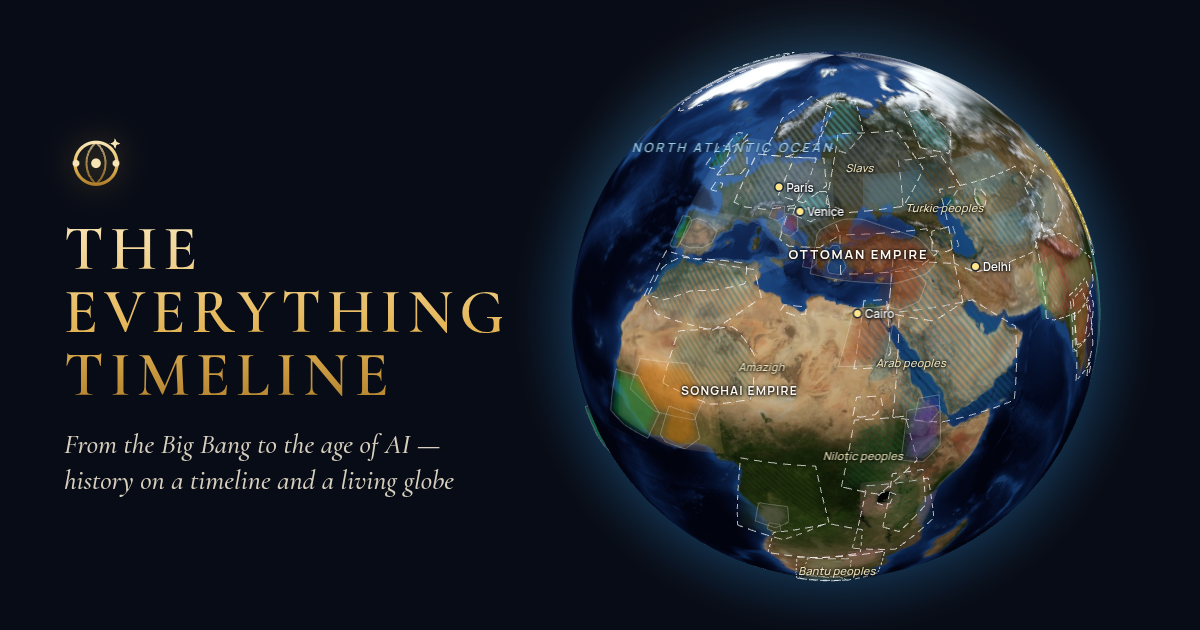
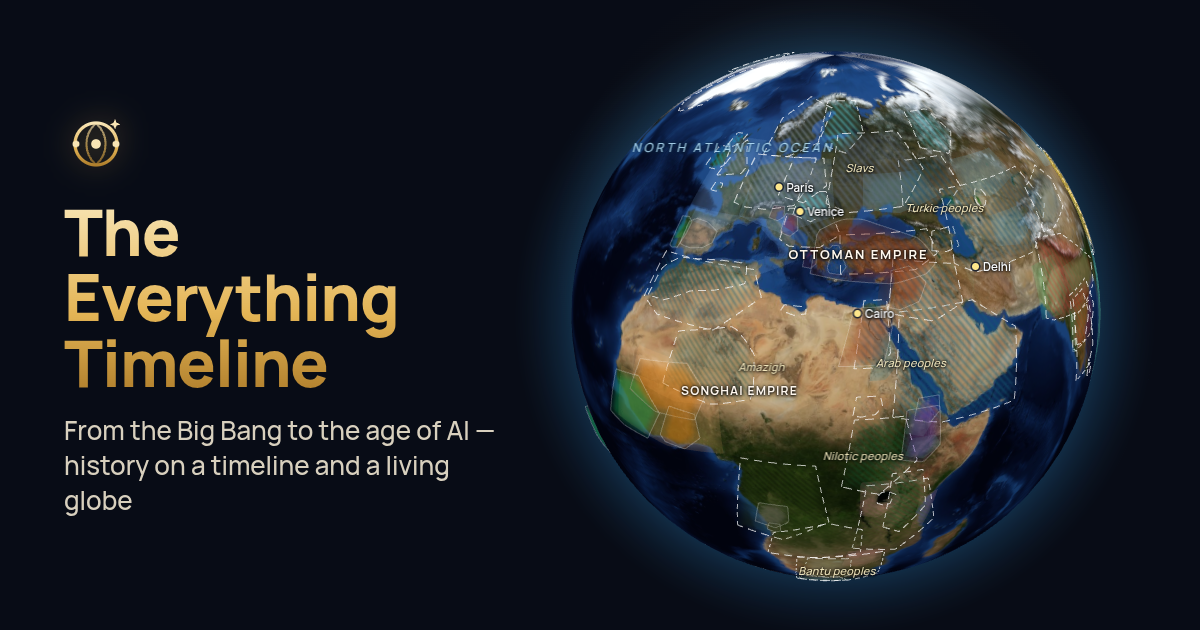
Day 47b: readable type — Manrope 800 headings/wordmark (title case), larger panel/detail text, chips, key, scrubber and axis labels; brighter secondary text; drop palette alternatives; new og-image

Changed region(s): [[0.0308, 0.3317, 0.4317, 0.6333], [0.0308, 0.6635, 0.4008, 0.8143], [0.0617, 0.181, 0.1233, 0.3016]]

diff --git a/src/style.css b/src/style.css
@@ -8,13 +8,12 @@
 
 /* ============================================================
    Day 47 — design tokens ("Gilded Night"): ink-navy space, warm gold brand,
-   Cormorant Garamond display + Manrope UI. Alternatives: [data-palette="b|c"]
-   at the end of this file (try ?palette=b / ?palette=c).
+   Manrope throughout (800 for the wordmark / headings, 400–600 for UI).
    ============================================================ */
 :root,
 [data-theme="dark"] {
   /* type */
-  --font-display: 'Cormorant Garamond', 'Cormorant', Georgia, 'Times New Roman', serif;
+  --font-display: 'Manrope', system-ui, -apple-system, 'Segoe UI', Roboto, sans-serif;
   --font-ui: 'Manrope', system-ui, -apple-system, 'Segoe UI', Roboto, sans-serif;
   --fs-2xs: 0.68rem;
   --fs-xs: 0.74rem;
@@ -24,7 +23,7 @@
   --fs-xl: 1.35rem;
   --fs-2xl: 1.75rem;
   --fs-3xl: 2.2rem;
-  --tracking-caps: 0.12em;
+  --tracking-caps: 0.08em;
   /* space + shape */
   --space-1: 4px;
   --space-2: 8px;
@@ -41,7 +40,7 @@
   --bg-surface: #111A2C;
   --bg-elevated: #1E2A42;
   --text: #F1EBDD;
-  --text-muted: #B3AC9B;
+  --text-muted: #C6BFAE;
   --accent: #E4B556;
   --accent-strong: #F3CD7A;
   --on-accent: #1B1305;
@@ -4088,72 +4087,126 @@ body::before {
 }
 
 /* ============================================================
-   Alternative palettes for review (?palette=b / ?palette=c).
+   Day 47b — readability pass (Arthur: "make it easier to read")
    ============================================================ */
-/* B — "Lapis & Copper": deep teal ink, copper brand, Fraunces + IBM Plex Sans */
-[data-palette="b"]:not([data-theme="light"]) {
-  --font-display: 'Fraunces', Georgia, serif;
-  --font-ui: 'IBM Plex Sans', system-ui, sans-serif;
-  --bg: #071417;
-  --bg-surface: #0E2126;
-  --bg-elevated: #1A3339;
-  --text: #EAF2EF;
-  --text-muted: #A6BBB6;
-  --accent: #E7956A;
-  --accent-strong: #F2B08B;
-  --on-accent: #1E0E05;
-  --accent-glow: rgba(231, 149, 106, 0.28);
-  --brand-1: #F7C9A8;
-  --brand-2: #E7956A;
-  --brand-3: #B5623A;
-  --hairline: rgba(234, 242, 239, 0.09);
-  --hairline-accent: rgba(231, 149, 106, 0.32);
-  --header-grad-start: rgba(7, 20, 23, 1);
-  --header-grad-end: rgba(7, 20, 23, 0);
-  --globe-halo: rgba(231, 149, 106, 0.1);
-  --canvas-axis: #24434A;
-  --canvas-axis-light: #436A72;
-  --tracking-caps: 0.04em;
+#header h1 {
+  font-family: var(--font-display);
+  font-weight: 800;
+  font-size: 2.05rem;
+  letter-spacing: -0.015em;
+  text-transform: none;
+  line-height: 1.05;
+  padding-top: 0;
 }
 
-[data-palette="b"]:not([data-theme="light"]) #header h1 {
-  text-transform: none;
+#header .subtitle {
+  font-family: var(--font-ui);
+  font-style: normal;
+  font-weight: 500;
+  font-size: 0.95rem;
+  letter-spacing: 0.01em;
+}
+
+#header .active-view-label {
+  font-size: var(--fs-sm);
+}
+
+.event-detail h2,
+.feedback-head h2,
+.globe-title,
+.bookmarks-panel h2 {
+  font-weight: 800;
+  letter-spacing: -0.01em;
+}
+
+.event-detail h2 {
+  font-size: 1.5rem;
+  line-height: 1.2;
+}
+
+.globe-title {
+  font-size: 1.6rem;
+}
+
+.event-detail #detail-date {
+  font-size: var(--fs-sm);
+  letter-spacing: 0.05em;
+}
+
+.event-detail #detail-description,
+.globe-lede {
+  font-size: 1rem;
+  line-height: 1.6;
+}
+
+.globe-note,
+.globe-copy p {
+  font-size: 0.92rem;
+  line-height: 1.6;
+}
+
+.globe-year-label {
+  font-size: 1.6rem;
+  font-weight: 800;
+  letter-spacing: -0.01em;
+  font-variant-numeric: tabular-nums;
+}
+
+.globe-year-heading {
+  font-size: var(--fs-xs);
+}
+
+.globe-year-ticks {
+  font-size: var(--fs-xs);
+  color: var(--text-muted);
+}
+
+.globe-year-preset,
+.era-btn {
+  font-size: var(--fs-sm);
   font-weight: 600;
 }
 
-/* C — "Observatory": near-black, ice-blue brand, Cinzel + Plus Jakarta Sans */
-[data-palette="c"]:not([data-theme="light"]) {
-  --font-display: 'Cinzel', Georgia, serif;
-  --font-ui: 'Plus Jakarta Sans', system-ui, sans-serif;
-  --bg: #05060A;
-  --bg-surface: #10121A;
-  --bg-elevated: #1D2130;
-  --text: #ECEEF4;
-  --text-muted: #A4A9B8;
-  --accent: #9ED8EC;
-  --accent-strong: #C4E9F5;
-  --on-accent: #06141A;
-  --accent-glow: rgba(158, 216, 236, 0.25);
-  --brand-1: #F2FBFF;
-  --brand-2: #9ED8EC;
-  --brand-3: #5E9DB5;
-  --hairline: rgba(236, 238, 244, 0.08);
-  --hairline-accent: rgba(158, 216, 236, 0.3);
-  --header-grad-start: rgba(5, 6, 10, 1);
-  --header-grad-end: rgba(5, 6, 10, 0);
-  --globe-halo: rgba(158, 216, 236, 0.08);
-  --canvas-axis: #262B3C;
-  --canvas-axis-light: #464D63;
-  --tracking-caps: 0.14em;
-}
-
-[data-palette="c"]:not([data-theme="light"]) #header h1 {
-  font-size: 1.9rem;
-}
-
-[data-palette="c"]:not([data-theme="light"]) #header .subtitle {
-  font-style: normal;
-  font-family: var(--font-ui);
+.globe-canvas-host > .globe-legend {
   font-size: var(--fs-sm);
-  letter-spacing: 0.08em;
+}
+
+@media (max-width: 640px) {
+  .globe-canvas-host > .globe-legend {
+    font-size: var(--fs-xs);
+  }
+}
+
+.globe-legend-item {
+  font-weight: 600;
+}
+
+.globe-legend-sub {
+  color: var(--text-muted);
+  font-weight: 500;
+}
+
+.view-select,
+.timeline-search,
+.filters-toggle,
+.compare-toggle,
+.bookmarks-toggle {
+  font-size: var(--fs-sm);
+}
+
+.mode-switch-btn {
+  font-weight: 800;
+  letter-spacing: 0.02em;
+}
+
+@media (max-width: 640px) {
+  #header h1 {
+    font-size: 0.98rem;
+    letter-spacing: -0.005em;
+    line-height: 1.05;
+  }
+
+  .event-detail #detail-description {
+    font-size: 1rem;
+  }
 }

diff --git a/index.html b/index.html
@@ -22,21 +22,10 @@
   <meta name="twitter:image" content="https://theeverythingtimeline.com/og-image.png" />
   <link rel="preconnect" href="https://fonts.googleapis.com">
   <link rel="preconnect" href="https://fonts.gstatic.com" crossorigin>
-  <link href="https://fonts.googleapis.com/css2?family=Cormorant+Garamond:ital,wght@0,500;0,600;0,700;1,500&family=Manrope:wght@400;500;600;700&display=swap" rel="stylesheet">
+  <link href="https://fonts.googleapis.com/css2?family=Manrope:wght@400;500;600;700;800&display=swap" rel="stylesheet">
   <link rel="icon" href="./favicon.svg" type="image/svg+xml" />
   <link rel="icon" href="./favicon-32.png" type="image/png" sizes="32x32" />
   <link rel="apple-touch-icon" href="./apple-touch-icon.png" />
-  <script>
-    // Day 47: ?palette=b|c previews the alternative brand palettes (see style.css, end).
-    (function () {
-      var m = /[?&]palette=([bc])\b/i.exec(location.search);
-      if (!m) return;
-      var p = m[1].toLowerCase();
-      document.documentElement.setAttribute('data-palette', p);
-      var f = { b: 'Fraunces:opsz,wght@9..144,500;9..144,600;9..144,700&family=IBM+Plex+Sans:wght@400;500;600;700', c: 'Cinzel:wght@500;600;700&family=Plus+Jakarta+Sans:wght@400;500;600;700' }[p];
-      document.write('<link rel="stylesheet" href="https://fonts.googleapis.com/css2?family=' + f + '&display=swap">');
-    })();
-  </script>
   <link rel="stylesheet" href="/src/style.css" />
 </head>
 <body>

diff --git a/src/swim-lane-view.js b/src/swim-lane-view.js
@@ -101,9 +101,9 @@ export function drawSwimLaneView(ctx, w, h, viewStart, viewEnd, scrollY, hovered
   const regionIndent = Math.round(12 * s);
   const barLabelIndent = Math.round(6 * s);
   const barRadius = Math.round(4 * s);
-  const headerFontSize = Math.round(11 * s);
-  const barLabelFontSize = Math.round(11 * s);
-  const periodLabelFontSize = Math.round(9 * s);
+  const headerFontSize = Math.round(12 * s);
+  const barLabelFontSize = Math.round(12 * s);
+  const periodLabelFontSize = Math.round(10 * s);
 
   // Time axis at top
   drawTimeAxis(ctx, w, viewStart, viewEnd, formatYearShort, s, timeAxisH);
@@ -229,7 +229,7 @@ function drawTimeAxis(ctx, w, viewStart, viewEnd, formatYearShort, scale, timeAx
   const s = scale || 1;
   const axisH = timeAxisH || Math.round(TIME_AXIS_HEIGHT * s);
   const axisY = axisH - 1;
-  const tickFontSize = Math.round(10 * s);
+  const tickFontSize = Math.round(11.5 * s);
   const tickHalf = Math.round(5 * s);
   const tickLabelOffset = Math.round(6 * s);
 

diff --git a/src/main.js b/src/main.js
@@ -1050,7 +1050,7 @@ function drawCosmicTimeline() {
   const baseOffset = Math.round(40 * s);
   const hoverGrow = Math.round(4 * s);
   const connectorDash = Math.round(3 * s);
-  const eraFontSize = Math.round(11 * s);
+  const eraFontSize = Math.round(12 * s);
   const iconFontSize = Math.max(10, Math.round(14 * s));
 
   // Era backgrounds
@@ -1157,7 +1157,7 @@ function drawCosmicTimeline() {
 function drawTicks(w, h, axisY) {
   const theme = currentTheme();
   const s = uiScale;
-  const tickFontSize = Math.round(10 * s);
+  const tickFontSize = Math.round(11.5 * s);
   const tickHalf = Math.round(6 * s);
   const tickLabelOffset = Math.round(12 * s);
 

diff --git a/ROADMAP.md b/ROADMAP.md
@@ -750,8 +750,8 @@ Builds on Phase 4b's dated cities step 1 (the first ~300 dated cities).
 > "Before continuing with the roadmap I want us to improve the aesthetics, and I want Globe mode to be a button that we switch between right at the start … I don't like the current font and Purple title … more of a colour and branding thing and font sizes."
 
 - **Status: Day 47 — IN REVIEW (PR #53). Do not start this item again, and do NOT start item 5 (trade routes) until Arthur has reviewed and merged #53.** If #53 is still unmerged when the daily ship routine fires (9:24am BRT, 10 Oct), the routine should at most polish #53 per Arthur's review comments (push to its branch, no new feature PR).
-- Built: Timeline / Globe segmented switch top-left (desktop + phone; hidden in full-screen globe; `view=` deep links unchanged; topic + country timelines still in the view select, "Timeline" returns to the last one). "Gilded Night" identity: ink-navy space background, warm gold brand, Cormorant Garamond display (caps wordmark, headings, years) + Manrope UI; gold mark (globe + timeline line + star) and favicon; design tokens (type scale, spacing, radii, colours) at the top of `src/style.css`, canvas reads them via `src/theme.js`; parchment light theme; new og-image + theme-color. Alternatives for review: `?palette=b` ("Lapis & Copper": Fraunces + IBM Plex Sans) and `?palette=c` ("Observatory": Cinzel + Plus Jakarta Sans).
-- After review: drop the palettes Arthur doesn't pick (or promote one), then continue with item 5.
+- Built: Timeline / Globe segmented switch top-left (desktop + phone; hidden in full-screen globe; `view=` deep links unchanged; topic + country timelines still in the view select, "Timeline" returns to the last one). "Gilded Night" identity: ink-navy space background, warm gold brand, Manrope throughout (bold 800 title-case wordmark and headings; Cormorant Garamond dropped on review as hard to read); gold mark (globe + timeline line + star) and favicon; design tokens (type scale, spacing, radii, colours) at the top of `src/style.css`, canvas reads them via `src/theme.js`; parchment light theme; new og-image + theme-color.  Arthur picked the gold palette (alternatives removed); readability pass: larger detail/panel text (16px), chips, key, scrubber ticks and canvas axis labels, brighter secondary text.
+- After review: continue with item 5.
 
 ### 5. Movement: trade routes and migrations
 

diff --git a/README.md b/README.md
@@ -122,7 +122,7 @@ The repository includes GitHub Actions workflows that build the Vite app and pub
 
 ## Design
 
-Brand "Gilded Night" (Day 47): ink-navy space background, warm gold accent, **Cormorant Garamond** (display: wordmark, headings, years) + **Manrope** (UI), both from Google Fonts with system fallbacks. All colours, fonts, the type scale, spacing and radii are CSS variables at the top of `src/style.css`; the timeline canvas reads the same tokens through `src/theme.js`. Light mode is a parchment variant. The mark / favicon live in `index.html` and `public/favicon.svg`. Review-only alternatives: `?palette=b` (Lapis & Copper: Fraunces + IBM Plex Sans) and `?palette=c` (Observatory: Cinzel + Plus Jakarta Sans).
+Brand "Gilded Night" (Day 47): ink-navy space background, warm gold accent, **Manrope** throughout (800 for the wordmark and headings, 400–600 for UI), both from Google Fonts with system fallbacks. All colours, fonts, the type scale, spacing and radii are CSS variables at the top of `src/style.css`; the timeline canvas reads the same tokens through `src/theme.js`. Light mode is a parchment variant. The mark / favicon live in `index.html` and `public/favicon.svg`.
 
 ## Feedback
 
